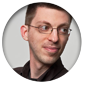
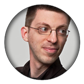
High resolution photo of my face and responsive infrastructure

diff --git a/sass/layout/_responsive.scss b/sass/layout/_responsive.scss
@@ -1,0 +1,16 @@
+// ============================================================================
+// Breakpoints
+// ============================================================================
+
+// Footer
+// ----------------------------------------------------------------------------
+
+// High resolution image of my face
+@include breakpoint($hi-resolution) {
+  .footer .about p {
+    background-image: url("/assets/images/css/footer/stefan-imhoff@2X.png");
+    background-position: 0 0;
+    background-repeat: no-repeat;
+    background-size: 84px 84px;
+  }
+}

diff --git a/sass/helpers/_variables.scss b/sass/helpers/_variables.scss
@@ -82,6 +82,7 @@ $header-background-url: ""; // THEME
 // ----------------------------------------------------------------------------
 
 $iphone-width: (screen) (max-width 480px);
+$hi-resolution: min-resolution 1.5dppx;
 
 // Abstände und Maße
 // ----------------------------------------------------------------------------

diff --git a/sass/application.scss b/sass/application.scss
@@ -37,8 +37,12 @@
 @import "pages/archive";
 @import "pages/error";
 
+// Responsive Layout
+@import "layout/responsive";
+
 // Debugging
 @import "helpers/debug";
 
 // Nur für schnelle Test und Fixes!
 @import "base/shame";
+

diff --git a/sass/base/_init.scss b/sass/base/_init.scss
@@ -28,3 +28,4 @@ html, body {
 }
 
 
+
